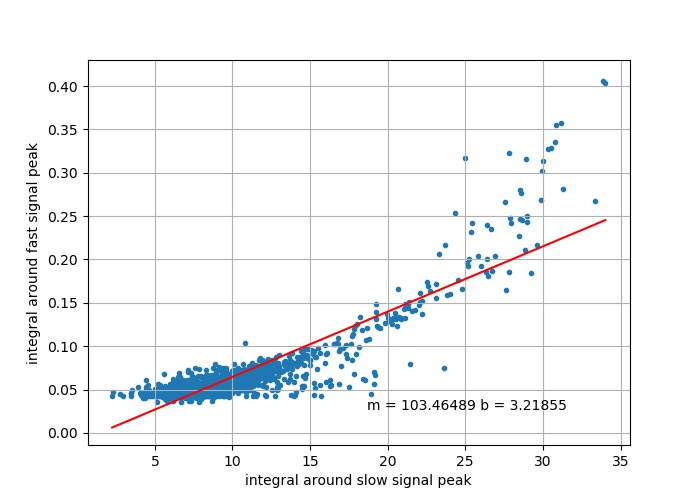
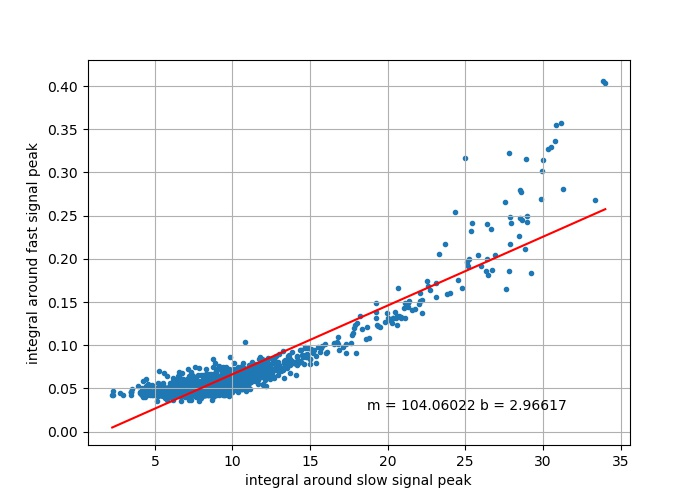
restricted range of slowdata to lie in range of fast data

diff --git a/software/correlator.py b/software/correlator.py
@@ -27,13 +27,22 @@ datanum		= np.shape(Original)[0] - 2
 
 print('There are', datanum, 'events')
 
+timerngmin	= -350	#in ns
+timerngmax	= 350	#in ns
+
 origbaseval	= 82	#in mV
 origscale	= 1000.	#convert mV to V
 strampbaseval	= -3	#in V
 strampscale	= 10.	#due to x10 gain
 
-fastdata    = -1.0*(Original[:,2:].astype(float) - origbaseval)/origscale
-slowdata    = (Stramp[:,2:].astype(float) - strampbaseval)/strampscale
+fastdata	= -1.0*(Original[:,2:].astype(float) - origbaseval)/origscale
+slowdata	= (Stramp[:,2:].astype(float) - strampbaseval)/strampscale
+
+minindex	= np.where(Stramptime > timerngmin)[0][0]
+maxindex	= np.where(Stramptime < timerngmax)[0][-1]
+
+slowdata	= slowdata[:,minindex:maxindex]
+
 
 #classify into single signal and multiple signal first
 
@@ -58,7 +67,7 @@ print('There are', np.shape(multisgnl)[0], 'multiple signal events')
 
 #examples of mono signal, multi signal and anomaly
 plt.figure(figsize=(7,5))
-plt.plot(Stramptime, slowdata[monosgnl[0]], 'y', Origtime, fastdata[monosgnl[0]], 'b')
+plt.plot(Stramptime[minindex:maxindex], slowdata[monosgnl[0]], 'y', Origtime, fastdata[monosgnl[0]], 'b')
 #plt.legend()
 plt.grid()
 plt.xlim([-350,350])
@@ -67,7 +76,7 @@ plt.savefig('mono.jpg')
 plt.close()
 
 plt.figure(figsize=(7,5))
-plt.plot(Stramptime, slowdata[multisgnl[0]], 'y', Origtime, fastdata[multisgnl[0]], 'b')
+plt.plot(Stramptime[minindex:maxindex], slowdata[multisgnl[0]], 'y', Origtime, fastdata[multisgnl[0]], 'b')
 #plt.legend()
 plt.grid()
 plt.xlim([-350,350])
@@ -199,8 +208,8 @@ plt.figure(figsize=(7,5))
 plt.scatter(slowloc, fastloc, marker='.')
 plt.plot(np.unique(slowloc), np.poly1d(np.polyfit(slowloc, fastloc, 1))(np.unique(slowloc)), 'r')
 ax = plt.gca()
-ax.set_xlabel('location of slow signal peak')
-ax.set_ylabel('location of fast signal peak')
+ax.set_xlabel('location of fast signal peak')
+ax.set_ylabel('location of slow signal peak')
 
 j = 0
 for i in monosgnl:
